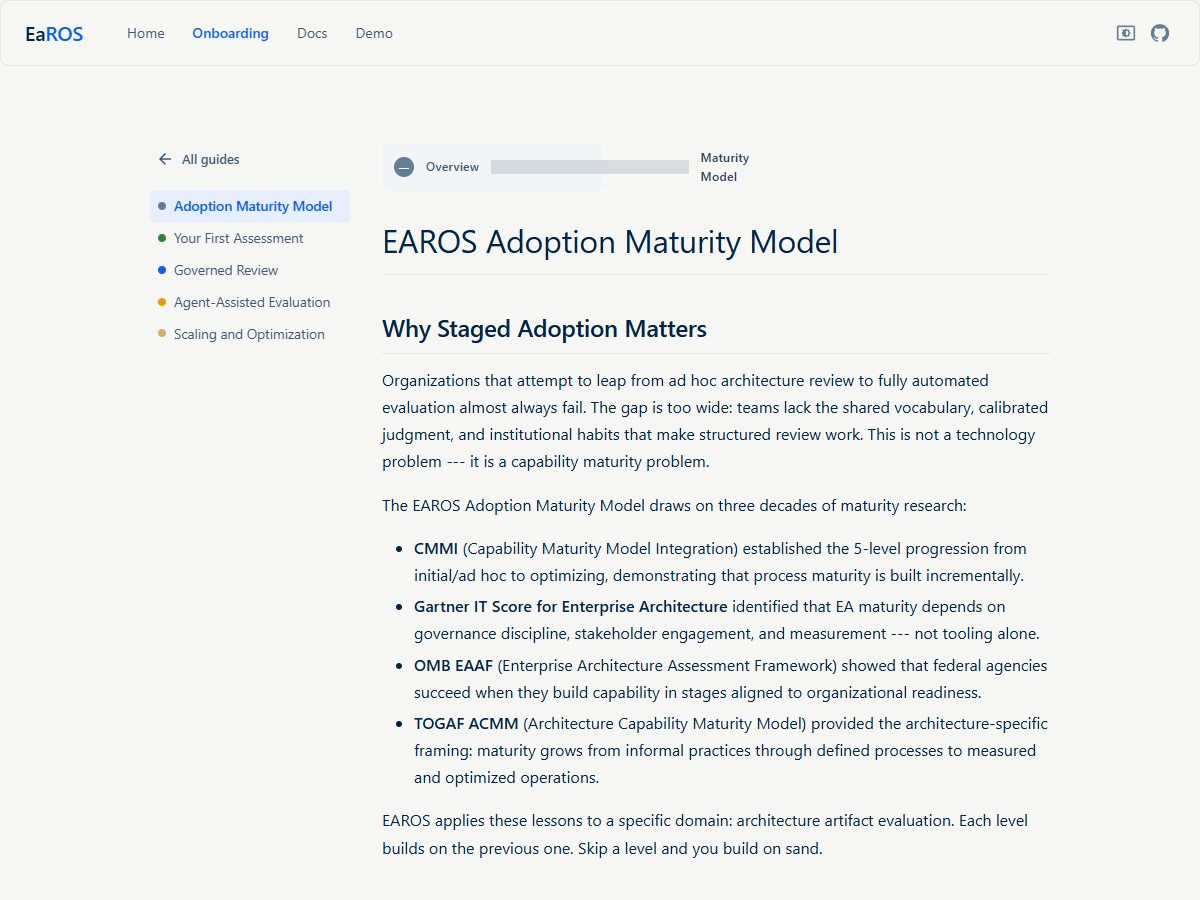
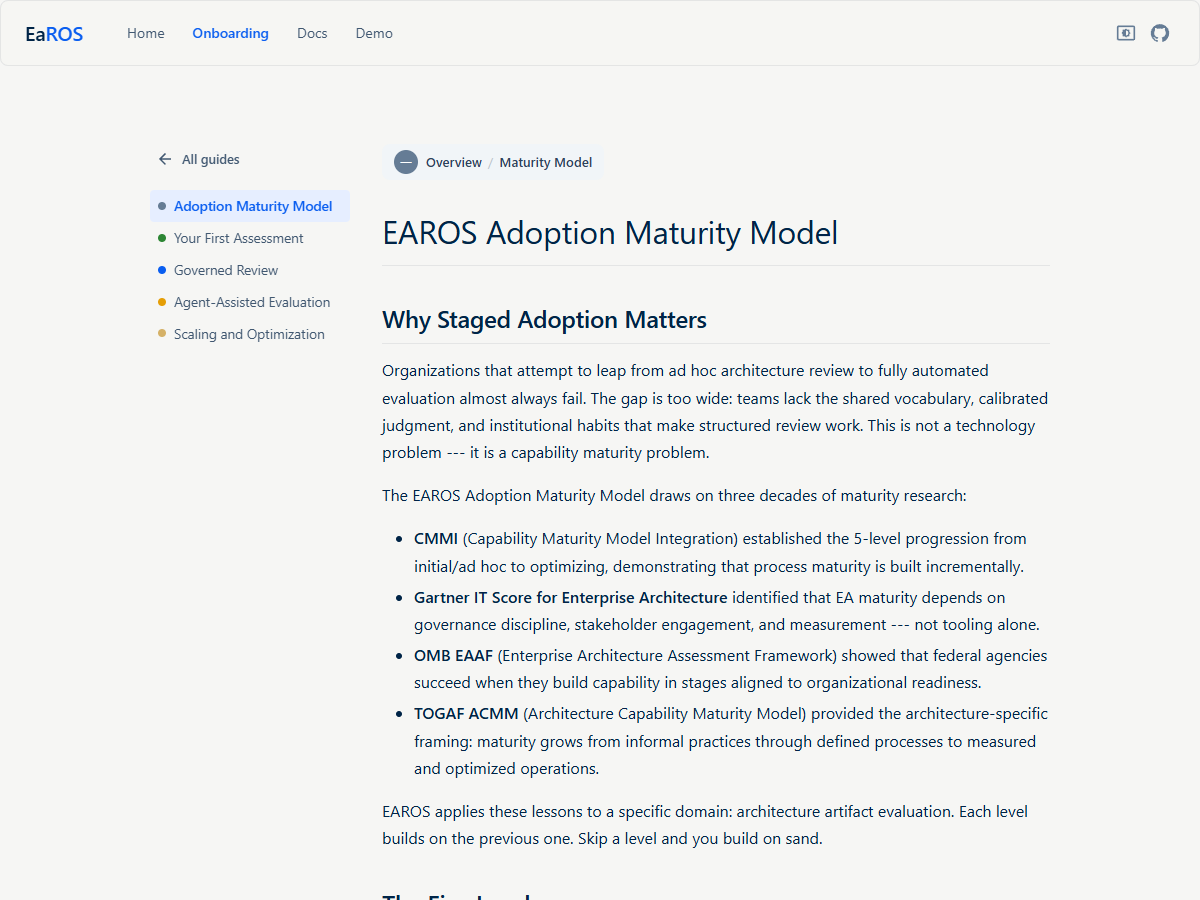
fix(site): improve maturity badge layout and overview readability
- MaturityBadge: use whiteSpace nowrap and combine transition/label
  into a single line with slash separator to prevent text wrapping
- overview.md: replace dense 6-column table with individual sections
  per maturity level, each with description, key practices, EAROS
  capabilities, success criteria, and guide link

diff --git a/site/src/components/MaturityBadge.tsx b/site/src/components/MaturityBadge.tsx
@@ -58,18 +58,19 @@ export default function MaturityBadge({ maturityLevel, maturityTransition, matur
       sx={{
         display: 'inline-flex',
         alignItems: 'center',
-        gap: 1.5,
+        gap: 1,
         px: 1.5,
-        py: 0.5,
-        borderRadius: '6px',
+        py: 0.75,
+        borderRadius: '8px',
         bgcolor: colors.bg,
+        whiteSpace: 'nowrap',
       }}
     >
-      {/* Level dot */}
+      {/* Level circle */}
       <Box
         sx={{
-          width: 20,
-          height: 20,
+          width: 24,
+          height: 24,
           borderRadius: '50%',
           bgcolor: colors.dot,
           display: 'flex',
@@ -80,7 +81,7 @@ export default function MaturityBadge({ maturityLevel, maturityTransition, matur
       >
         <Typography
           sx={{
-            fontSize: '0.65rem',
+            fontSize: '0.7rem',
             fontWeight: 700,
             lineHeight: 1,
             color: '#ffffff',
@@ -90,35 +91,24 @@ export default function MaturityBadge({ maturityLevel, maturityTransition, matur
         </Typography>
       </Box>
 
-      {/* Transition text */}
+      {/* Combined label */}
       <Typography
         sx={{
-          fontSize: '0.78rem',
-          color: isDark ? sapphire.gray[400] : sapphire.gray[600],
-          fontWeight: 500,
-        }}
-      >
-        {maturityTransition}
-      </Typography>
-
-      {/* Separator */}
-      <Box
-        sx={{
-          width: 1,
-          height: 14,
-          bgcolor: isDark ? 'hsla(212, 33%, 27%, 0.6)' : 'hsla(212, 63%, 12%, 0.12)',
-          flexShrink: 0,
-        }}
-      />
-
-      {/* Label */}
-      <Typography
-        sx={{
-          fontSize: '0.78rem',
+          fontSize: '0.82rem',
           color: colors.text,
           fontWeight: 600,
         }}
       >
+        {maturityTransition}
+        <Box
+          component="span"
+          sx={{
+            mx: 0.75,
+            color: isDark ? 'hsla(212, 33%, 77%, 0.4)' : 'hsla(212, 63%, 12%, 0.2)',
+          }}
+        >
+          /
+        </Box>
         {maturityLabel}
       </Typography>
     </Box>

diff --git a/docs/onboarding/overview.md b/docs/onboarding/overview.md
@@ -15,13 +15,61 @@ EAROS applies these lessons to a specific domain: architecture artifact evaluati
 
 ## The Five Levels
 
-| Level | Name | Description | Key Practices | EAROS Capabilities Used | Success Criteria |
-|-------|------|-------------|---------------|------------------------|------------------|
-| **1** | **Ad Hoc** | No formal review process. Evaluation quality depends entirely on who happens to review the artifact. Different reviewers apply different mental models, and feedback is inconsistent and unreproducible. | Informal peer review, tribal knowledge | None (this is the baseline state) | You recognize the problem: reviews are inconsistent and reviewer-dependent |
-| **2** | **Rubric-Based** | The core rubric is adopted. Every assessment uses the same 9 dimensions and 10 criteria with the 0--4 scoring scale. Evidence is cited for every score. Results are reproducible across reviewers. | Manual scoring against core meta-rubric, evidence citation for every score, gate checking | Core meta-rubric, scoring sheets, 0--4 scale | At least one complete assessment using the core rubric with evidence for every score |
-| **3** | **Governed** | Artifact-specific profiles and context-driven overlays are in use. Teams are calibrated against reference examples. The RULERS protocol ensures evidence-anchored scoring. Evaluation records are structured and auditable. | Profile and overlay selection, RULERS protocol, team calibration exercises, structured evaluation records | Profiles, overlays, calibration, RULERS protocol, evidence classes | Calibration exercise completed with Cohen's kappa > 0.70; profiles matched to artifact types |
-| **4** | **Hybrid** | AI agents augment human reviewers. Both evaluate independently and reconcile disagreements against level descriptors. Metrics track inter-rater reliability between human and agent evaluators. | Human + AI agent independent evaluation, challenge pass, disagreement resolution, reliability tracking | Agent skills, DAG evaluation flow, challenge pass, hybrid mode | Human-agent disagreements routinely resolved; inter-rater reliability tracked |
-| **5** | **Optimized** | Architecture evaluation is continuous and integrated into delivery workflows. Calibration happens automatically. Executive reporting provides portfolio-level quality visibility. Rubrics are governed assets with version control and change management. | CI/CD integration, continuous calibration, custom profile creation, executive reporting, fitness functions | Executive reporting, fitness functions, Wasserstein calibration, custom profiles | Evaluation integrated into pipelines; calibration drift monitored; portfolio-level reporting operational |
+### Level 1 --- Ad Hoc
+
+No formal review process. Evaluation quality depends entirely on who happens to review the artifact. Different reviewers apply different mental models, and feedback is inconsistent and unreproducible.
+
+- **Key practices:** Informal peer review, tribal knowledge
+- **EAROS capabilities:** None (this is the baseline state)
+- **You are here when:** You recognize the problem --- reviews are inconsistent and reviewer-dependent
+
+---
+
+### Level 2 --- Rubric-Based
+
+The core rubric is adopted. Every assessment uses the same 9 dimensions and 10 criteria with the 0--4 scoring scale. Evidence is cited for every score. Results are reproducible across reviewers.
+
+- **Key practices:** Manual scoring against core meta-rubric, evidence citation for every score, gate checking
+- **EAROS capabilities:** Core meta-rubric, scoring sheets, 0--4 scale
+- **You are here when:** You have completed at least one assessment using the core rubric with evidence for every score
+
+> **Guide:** [Your First Assessment](first-assessment.md) walks you through this transition.
+
+---
+
+### Level 3 --- Governed
+
+Artifact-specific profiles and context-driven overlays are in use. Teams are calibrated against reference examples. The RULERS protocol ensures evidence-anchored scoring. Evaluation records are structured and auditable.
+
+- **Key practices:** Profile and overlay selection, RULERS protocol, team calibration exercises, structured evaluation records
+- **EAROS capabilities:** Profiles, overlays, calibration, RULERS protocol, evidence classes
+- **You are here when:** Your team has completed a calibration exercise with Cohen's kappa > 0.70 and profiles are matched to artifact types
+
+> **Guide:** [Governed Review](governed-review.md) walks you through this transition.
+
+---
+
+### Level 4 --- Hybrid
+
+AI agents augment human reviewers. Both evaluate independently and reconcile disagreements against level descriptors. Metrics track inter-rater reliability between human and agent evaluators.
+
+- **Key practices:** Human + AI agent independent evaluation, challenge pass, disagreement resolution, reliability tracking
+- **EAROS capabilities:** Agent skills, DAG evaluation flow, challenge pass, hybrid mode
+- **You are here when:** Human-agent disagreements are routinely resolved and inter-rater reliability is tracked
+
+> **Guide:** [Agent-Assisted Evaluation](agent-assisted.md) walks you through this transition.
+
+---
+
+### Level 5 --- Optimized
+
+Architecture evaluation is continuous and integrated into delivery workflows. Calibration happens automatically. Executive reporting provides portfolio-level quality visibility. Rubrics are governed assets with version control and change management.
+
+- **Key practices:** CI/CD integration, continuous calibration, custom profile creation, executive reporting, fitness functions
+- **EAROS capabilities:** Executive reporting, fitness functions, Wasserstein calibration, custom profiles
+- **You are here when:** Evaluation is integrated into pipelines, calibration drift is monitored, and portfolio-level reporting is operational
+
+> **Guide:** [Scaling and Optimization](scaling-optimization.md) walks you through this transition.
 
 ## Where Are You Today?
 
